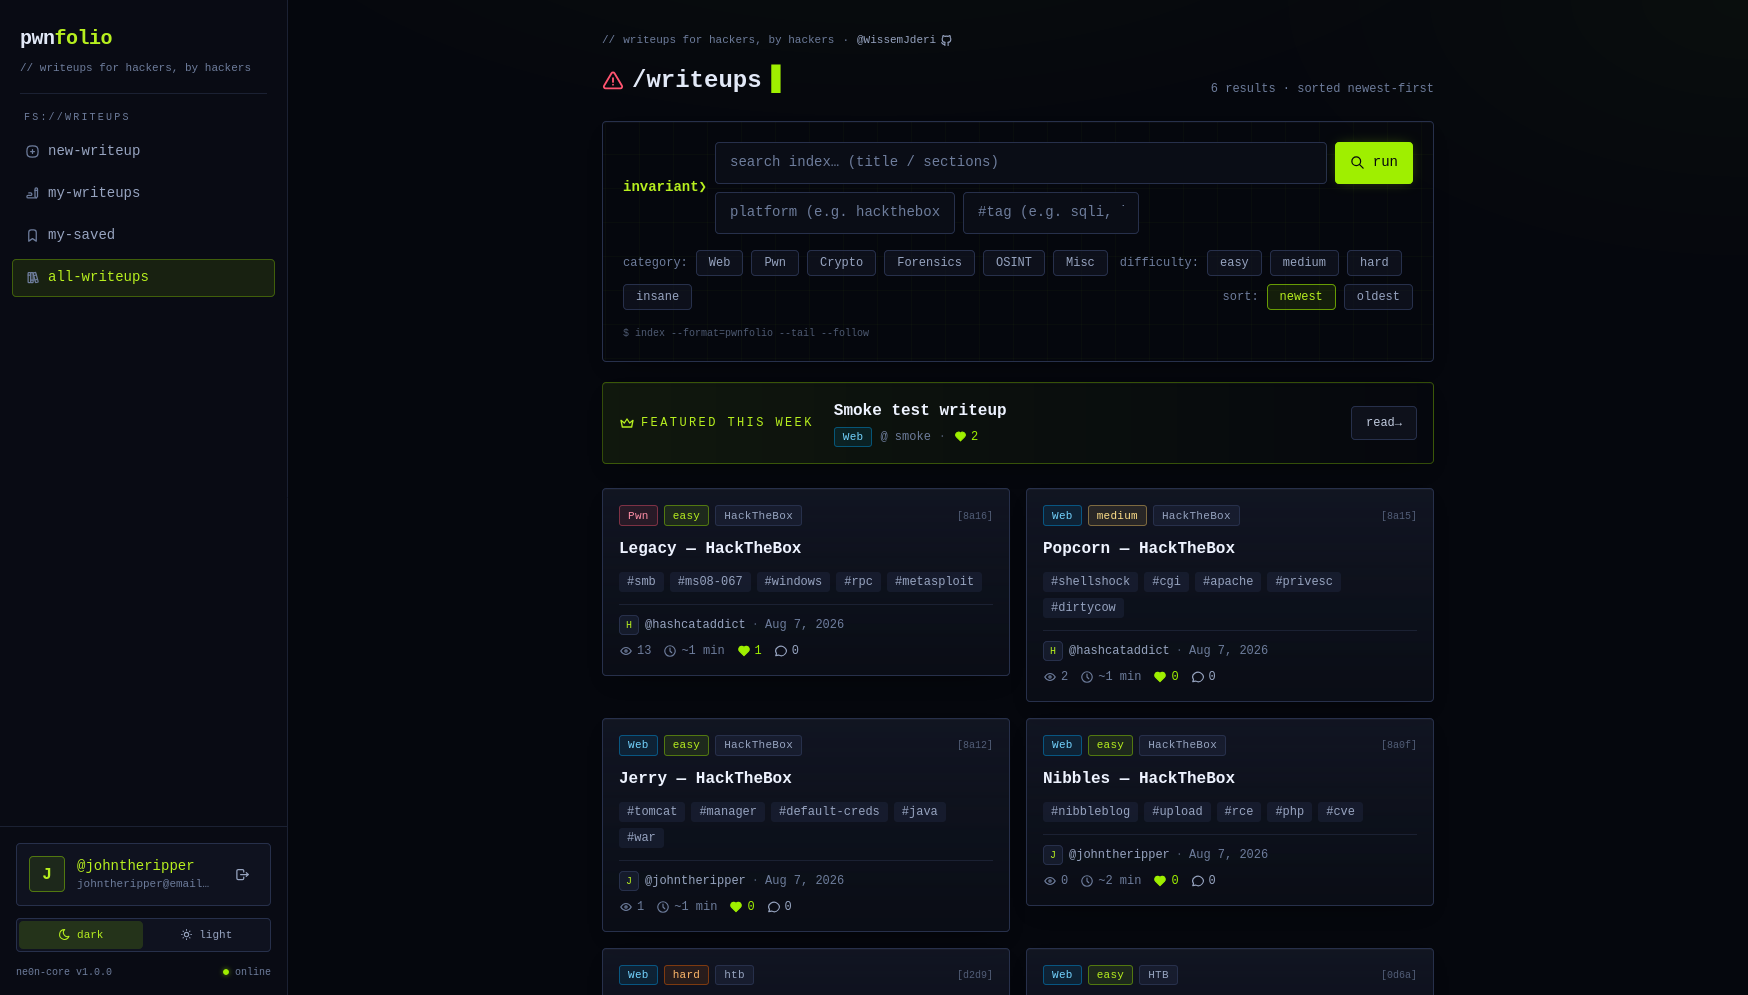
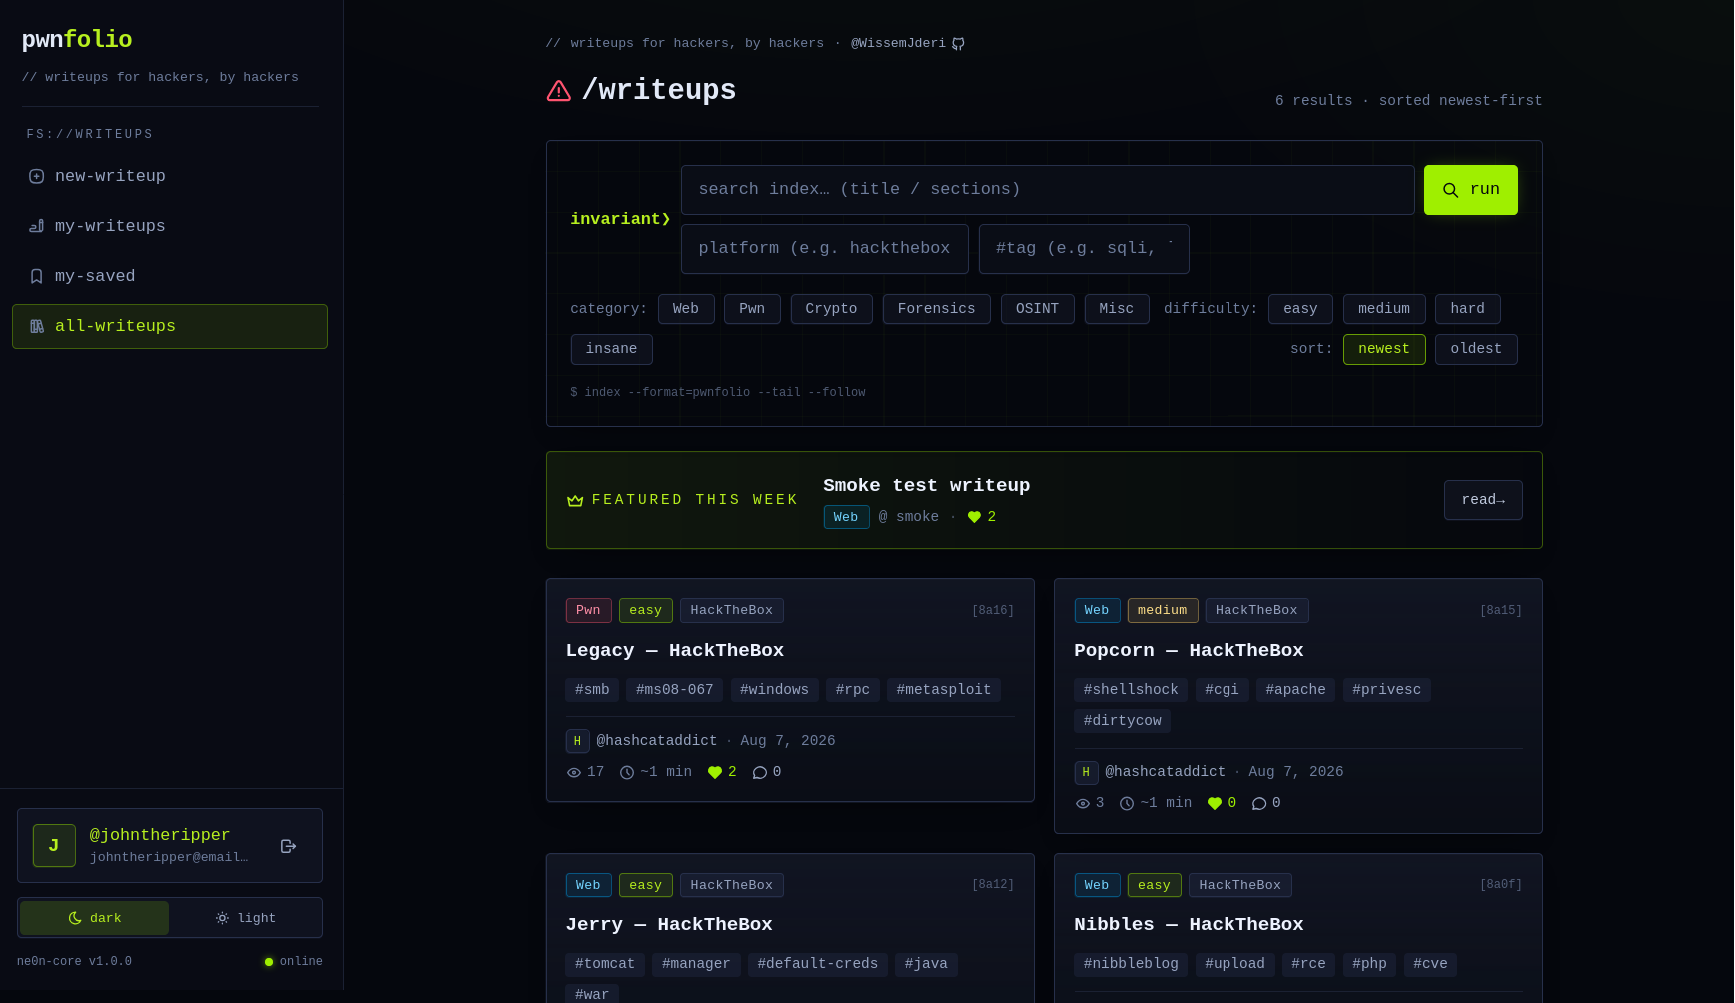
Change the about me section and remove the magnetic effect of get in touch button

diff --git a/components/main-content/AboutMe.jsx b/components/main-content/AboutMe.jsx
@@ -13,45 +13,46 @@ const AboutMe = ({ sectionStyle, titleStyle }) => {
       <p className="text-gray-200 leading-relaxed mb-6">
         I'm <span className="font-bold">Wissem</span>, a{" "}
         <span className="font-bold">
-          21-year-old self-taught developer from Tunisia
+          self-taught backend developer from Tunisia
         </span>
         .
       </p>
       <p className="text-gray-200 leading-relaxed mb-6">
         I got into programming because I liked the idea of turning an idea into
         something real — something you can hand to thousands of people at almost
-        no cost. That's still what excites me about it. Not the tools, not the
-        trends, but the fact that a{" "}
+        no cost. That's still what excites me about it: a{" "}
         <span className="font-bold">
           well-built piece of software can genuinely make someone's life a
           little easier
         </span>
-        . That idea hasn't gotten old.
+        .
       </p>
       <p className="text-gray-200 leading-relaxed mb-6">
         I work{" "}
-        <span className="font-bold">systematically and deliberately</span>. I
-        care about understanding things properly before moving forward, and I'd
+        <span className="font-bold">systematically and deliberately</span>. I'd
         rather go slow and get it right than rush through and leave a mess
-        behind. That approach shows up in how I learn, how I write code, and how
-        I think about problems.
+        behind — that shows up in how I learn, how I write code, and how I think
+        about problems.
       </p>
       <p className="text-gray-200 leading-relaxed mb-6">
-        I'm not interested in building things that are flashy or complicated for
-        their own sake. I'm drawn to{" "}
+        I taught myself through{" "}
+        <span className="font-bold">OSSU's computer science curriculum</span>,
+        working through it the way a program is meant to be worked through — in
+        order, without skipping the parts that are hard to skip.
+      </p>
+      <p className="text-gray-200 leading-relaxed mb-6">
+        I'm not drawn to flashy or complicated for its own sake. I care about{" "}
         <span className="font-bold">
-          problems that have real, direct impact
-        </span>{" "}
-        — tools that remove friction, simplify decisions, or give people back a
-        bit of their time. If software isn't making something genuinely better,
-        what's the point?
+          tools that remove friction, simplify decisions, and give people back a
+          bit of their time
+        </span>
+        . If software isn't making something genuinely better, what's the point?
       </p>
       <p className="text-gray-200 leading-relaxed">
         I'm currently <span className="font-bold">open to work</span> — backend,
-        with full-stack capability. I'm looking to contribute to projects that
-        are worth building, work with people who take their craft seriously, and
-        keep getting better at what I do. If that sounds like a fit,{" "}
-        <span className="font-bold">let's talk.</span>
+        with full-stack capability. Looking to join people who take their craft
+        seriously and keep getting better at what they do. If that sounds like a
+        fit, <span className="font-bold">let's talk.</span>
       </p>
     </motion.section>
   );

diff --git a/components/sidebar/Footer.jsx b/components/sidebar/Footer.jsx
@@ -4,7 +4,6 @@ import Link from "next/link";
 import { FaGithub, FaLinkedin } from "react-icons/fa";
 import { MdEmail } from "react-icons/md";
 import { IoDocumentText } from "react-icons/io5";
-import Magnetic from "../Magnetic";
 import { useEffect, useState } from "react";
 const Footer = () => {
   const [currentYear, setCurrentYear] = useState(null);
@@ -45,27 +44,26 @@ const Footer = () => {
 
       <div className="flex gap-5 justify-center mt-4">
         {buttonsList.map((button, index) => (
-          <Magnetic key={button.id} strength={0.4}>
-            <Link
-              href={button.link}
-              rel="noopener noreferrer"
-              target="_blank"
+          <Link
+            key={button.id}
+            href={button.link}
+            rel="noopener noreferrer"
+            target="_blank"
+          >
+            <motion.button
+              initial={{ opacity: 0, x: 80 }}
+              whileInView={{ opacity: 1, x: 0 }}
+              transition={{
+                duration: 0.5,
+                delay: index * 0.2,
+                ease: "easeOut",
+              }}
+              viewport={{ once: true }}
+              className="flex items-center gap-x-2 text-white rounded-2xl hover:text-[#ddddc3] cursor-pointer"
             >
-              <motion.button
-                initial={{ opacity: 0, x: 80 }}
-                whileInView={{ opacity: 1, x: 0 }}
-                transition={{
-                  duration: 0.5,
-                  delay: index * 0.2,
-                  ease: "easeOut",
-                }}
-                viewport={{ once: true }}
-                className="flex items-center gap-x-2 text-white rounded-2xl hover:text-[#ddddc3] cursor-pointer"
-              >
-                {button.icon}
-              </motion.button>
-            </Link>
-          </Magnetic>
+              {button.icon}
+            </motion.button>
+          </Link>
         ))}
       </div>
 
@@ -85,6 +83,7 @@ const Footer = () => {
         className="mx-auto mt-3 flex items-center gap-2 rounded-sm border border-white/10 bg-[#3a3a35] px-2.5 py-1.5 text-xs text-gray-400 transition-colors hover:border-[#ddddc3]/50 hover:text-[#ddddc3]"
       >
         <span className="font-mono text-[10px]">Ctrl K</span>
+        <span className="text-[10px] text-gray-500">command palette</span>
       </button>
     </div>
   );

diff --git a/components/main-content/HireMe.jsx b/components/main-content/HireMe.jsx
@@ -1,5 +1,4 @@
 import { motion } from "framer-motion";
-import Magnetic from "../Magnetic";
 import {
   FaReact,
   FaNodeJs,
@@ -99,14 +98,12 @@ const HireMe = ({ sectionStyle, titleStyle }) => {
           Have a project in mind, or just want to say hi? My inbox is always
           open.
         </p>
-        <Magnetic>
-          <a
+        <a
             href="mailto:wissemjderi@outlook.com?subject=Project%20inquiry"
             className="inline-flex items-center gap-2 rounded-sm bg-[#111312] px-6 py-3 font-semibold text-[#ddddc3] transition-colors duration-300 hover:bg-black"
           >
             <FaEnvelope /> Get In Touch
           </a>
-        </Magnetic>
       </motion.div>
     </section>
   );

diff --git a/components/main-content/Projects.jsx b/components/main-content/Projects.jsx
@@ -1,7 +1,7 @@
 import ProjectCard from "./ProjectCard";
 import { myProjects } from "./data/myProjects";
 const Projects = ({ sectionStyle, titleStyle }) => {
-  const projectCards = myProjects.map((project) => (
+  const projectCards = myProjects.map((project, index) => (
     <ProjectCard
       projectName={project.projectName}
       featured={project.featured}
@@ -13,6 +13,7 @@ const Projects = ({ sectionStyle, titleStyle }) => {
       liveDemo={project.liveDemo}
       key={project.projectName}
       techStack={project.techStack}
+      priority={index === 0}
     />
   ));
   return (

diff --git a/components/main-content/data/myProjects.js b/components/main-content/data/myProjects.js
@@ -29,7 +29,7 @@ export const myProjects = [
         <SiVitest color="white" size={25} />
       </div>
     ),
-    imageSrc: "pwnfolio.png",
+    imageSrc: "pwnfolio_home.png",
     imageAlt: "Screenshot of the pwnfolio CTF writeup platform",
     liveDemo: "https://pwnfolio.vercel.app/",
     repo: "https://github.com/WissemJderi/pwnfolio",

diff --git a/components/main-content/ProjectCard.jsx b/components/main-content/ProjectCard.jsx
@@ -14,6 +14,7 @@ const ProjectCard = ({
   liveDemo,
   techStack,
   featured,
+  priority,
 }) => {
   return (
     <motion.div
@@ -32,6 +33,7 @@ const ProjectCard = ({
           width={500}
           height={300}
           alt={imageAlt}
+          priority={priority}
           className="h-50 mb-4"
         />
       </div>
